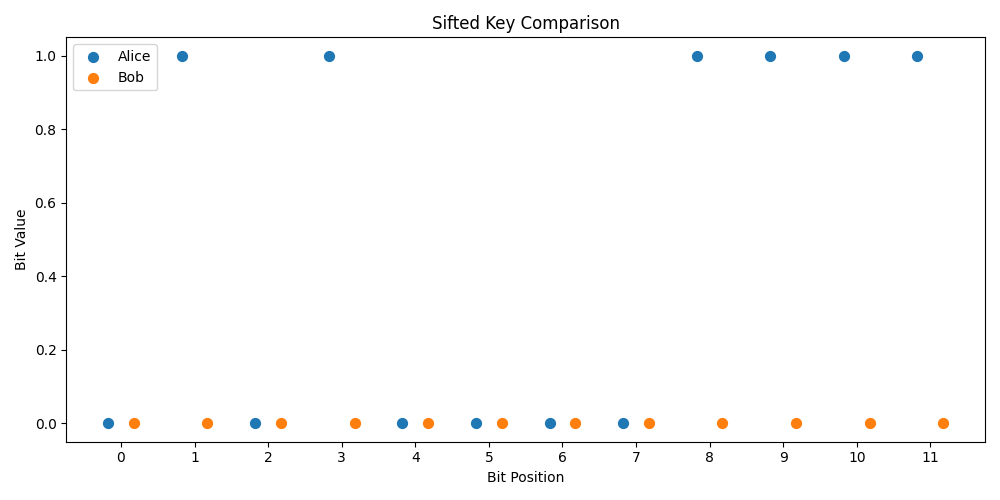
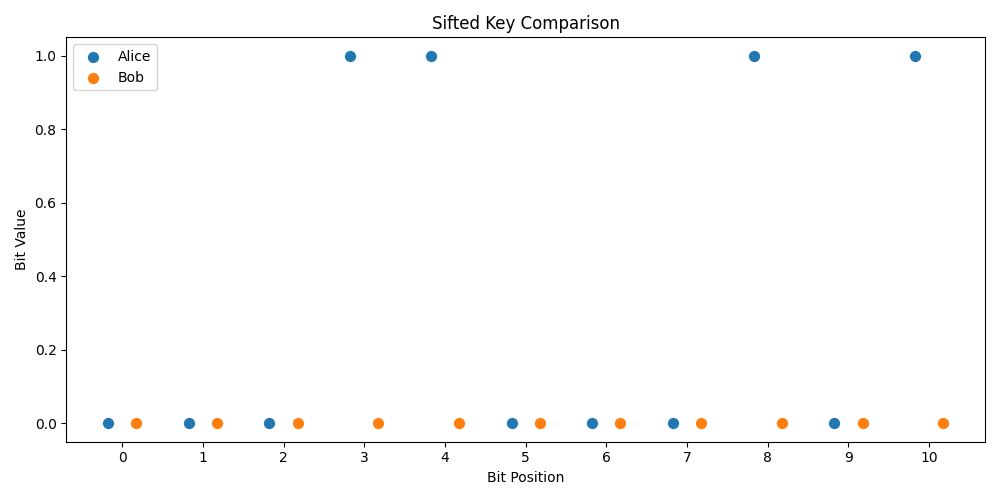
fixed server

diff --git a/client/src/components/Formbb84.jsx b/client/src/components/Formbb84.jsx
@@ -45,9 +45,9 @@ export default function Formbb84() {
 
       // Handle the response here if needed
       const data = await response.json();
-      console.log(data)
-      // setResponse(data);
-      // console.log(response?.results)
+      // console.log(data)
+      setResponse(data);
+      console.log(response?.results);
     } catch (error) {
       console.error("Error:", error);
     }
@@ -114,7 +114,7 @@ export default function Formbb84() {
               <Stack direction="column">
                 <LineGraph />
                 <Typography id="modal-modal-title" variant="h6" component="h2">
-                  {response?.results}
+                  {response}
                 </Typography>
               </Stack>
             </Box>

diff --git a/server/app.py b/server/app.py
@@ -1,7 +1,7 @@
+# app.py
 from flask import Flask, request, jsonify
 from flask_cors import CORS
-from subprocess import run, PIPE
-import os
+from bb84 import perform_qkd_simulation
 
 app = Flask(__name__)
 CORS(app)
@@ -16,40 +16,24 @@ def run_bb84():
         if num_qubits is None or error_rate is None:
             raise ValueError("Missing 'num_qubits' or 'error_rate' in the request.")
 
-        # Get the absolute path to the current directory
-        current_dir = os.path.dirname(os.path.abspath(__file__))
+        # Run the simulation
+        result = perform_qkd_simulation(num_qubits, error_rate)
 
-        # Update the path to your Python script in the scripts folder
-        python_script_path = os.path.join(current_dir, 'scripts', 'bb84.py')
-        
-        # Construct the command to run the Python script
-        python_command = f'python3 {python_script_path} {num_qubits} {error_rate}'
-        
-        # Run the Python script and capture the output
-        result = run(python_command, stdout=PIPE, stderr=PIPE, text=True, shell=True)
+        # Extract image paths from the result (adjust as needed)
+        bases_distribution_image = 'images/bases_distribution.png'
+        sifted_key_comparison_image = 'images/sifted_key_comparison.png'
+        error_distribution_image = 'images/error_distribution.png'
 
-
-        
-        if result.returncode == 0:
-            output_lines = result.stdout.strip().split('\n')
-            
-            # Extract image paths from the output (adjust as needed)
-            bases_distribution_image = os.path.join(current_dir, 'images', 'bases_distribution.png')
-            sifted_key_comparison_image = os.path.join(current_dir, 'images', 'sifted_key_comparison.png')
-            error_distribution_image = os.path.join(current_dir, 'images', 'error_distribution.png')
-
-            response_data = {
-                'results': output_lines,
-                'images': {
-                    'bases_distribution': bases_distribution_image,
-                    'sifted_key_comparison': sifted_key_comparison_image,
-                    'error_distribution': error_distribution_image
-                }
+        response_data = {
+            'results': result,
+            'images': {
+                'bases_distribution': bases_distribution_image,
+                'sifted_key_comparison': sifted_key_comparison_image,
+                'error_distribution': error_distribution_image
             }
+        }
 
-            return jsonify(response_data)
-        else:
-            raise RuntimeError(result.stderr.strip())
+        return jsonify(response_data)
 
     except Exception as e:
         error_message = str(e)

diff --git a/server/bb84.py b/server/bb84.py
@@ -125,7 +125,16 @@ def perform_qkd_simulation(num_qubits, error_rate):
     # Save plots
     save_plots(alice_bases, bob_bases, sifted_alice_bits, sifted_bob_bits, matching_bases)
 
-    return alice_bits, alice_bases, bob_bases, sifted_alice_bits, sifted_bob_bits, qber, sifted_key_rate, matching_bases
+    return {
+        'alice_bits': alice_bits,
+        'alice_bases': alice_bases,
+        'bob_bases': bob_bases,
+        'sifted_alice_bits': sifted_alice_bits,
+        'sifted_bob_bits': sifted_bob_bits,
+        'qber': qber,
+        'sifted_key_rate': sifted_key_rate,
+        'matching_bases': matching_bases
+    }
 
 if __name__ == "__main__":
     try:
